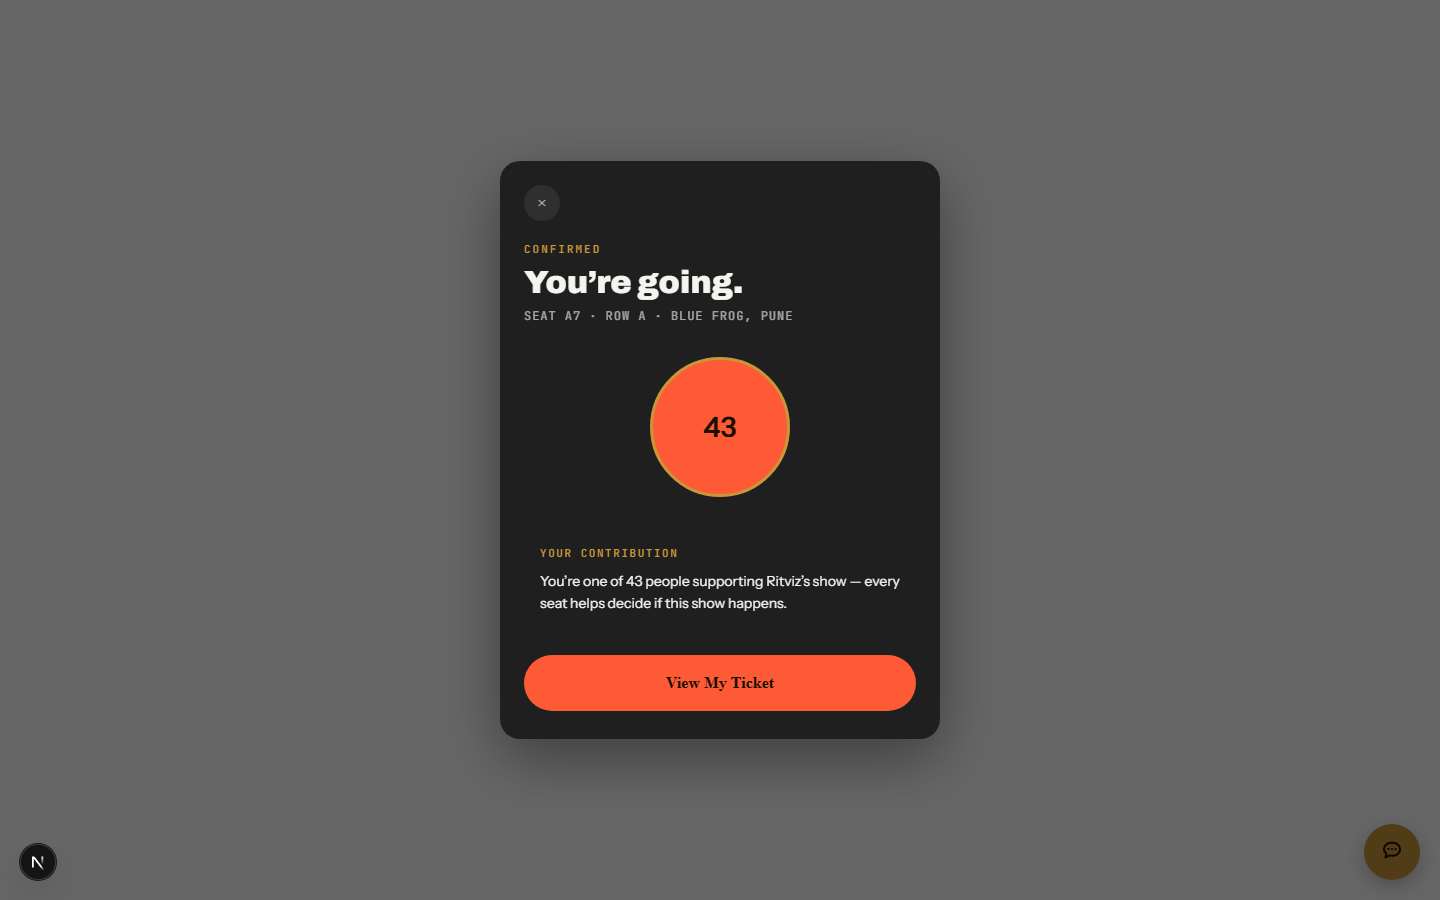
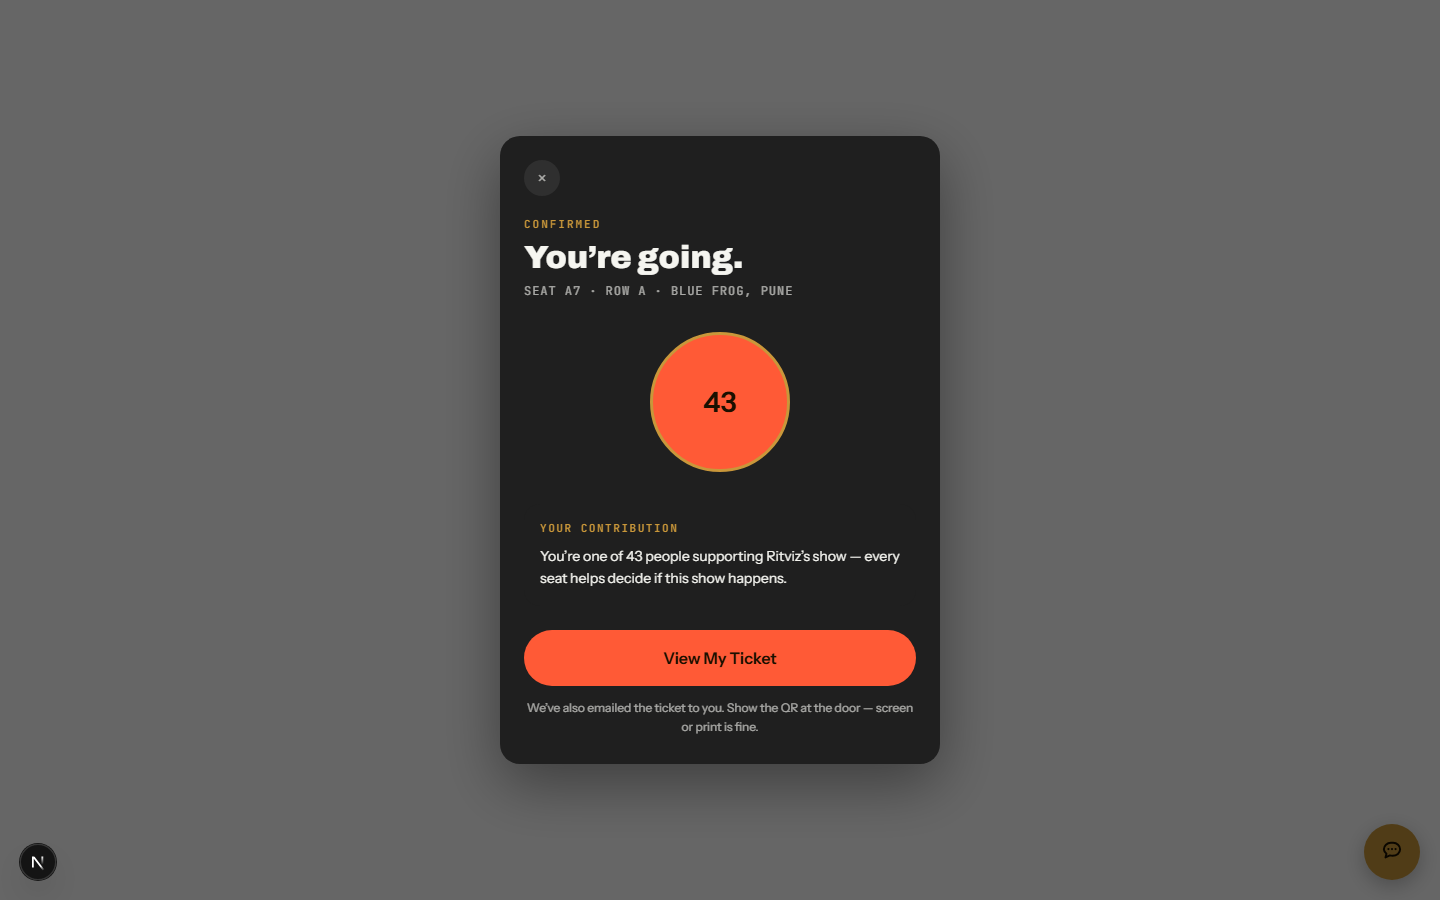
Fix missing emailed-ticket note, button font, and stale supporter count
1. tr.checkoutPage.emailedTicketNote existed on the old confirmed-state
   screen and was dropped without being flagged as deliberate (unlike
   the PDF-download link, which was). Restored as hardcoded English,
   matching the rest of this screen's copy.

2. The CTA/close buttons rendered in the browser's default serif
   fallback, not var(--font-sans) - <button> elements don't inherit
   font-family from ancestors in the UA stylesheet, and neither button
   set one explicitly. Root layout wrapping was fine (verified via
   getComputedStyle - the h1 already resolved to Archivo correctly);
   this was a plain missing-property bug in ContributionMoment.tsx
   itself. Fixed both buttons.

3. Re-verifying via a real booking through the real app (not the
   isolated preview) surfaced a second, more serious bug: the supporter
   count read event.totalSeats - event.availableSeats, but
   availableSeats is never decremented by POST /api/bookings (only by
   the unrelated +1-companion feature) - it would have shown 0 forever
   on every real booking. src/lib/event-occupancy.ts now aggregates
   live Booking rows instead (same CONFIRMED/non-expired-PENDING query
   POST /api/bookings' own capacity check already uses), confirmed
   correctly incrementing (3, then 4) across two real bookings made
   against a live QA event.

Includes new scratch-real-{mobile,desktop}.png + scratch_real_booking.js
(signs in as the documented QA audience persona and books a real free
[…]

Changed region(s): [[0.3438, 0.56, 0.6562, 0.8711], [0.3438, 0.2178, 0.5625, 0.56], [0.3438, 0.1244, 0.6562, 0.1867]]

diff --git a/src/lib/event-occupancy.ts b/src/lib/event-occupancy.ts
@@ -1,26 +1,29 @@
 import prisma from '@/lib/prisma'
 
 // Contribution-moment screen (post-seat-confirm) needs a live "N people
-// supporting this show" count. Event.totalSeats/availableSeats are only
-// kept accurate on the GA/flat booking path - same NUMBERED-venue live-
-// occupancy correction as src/app/(public)/events/[id]/seats/page.tsx
-// (see that file's own comment for the full "Jaipur Mic Gala 100" bug
-// history this fixes), extracted here so both call sites share one
-// definition instead of re-deriving it.
-export async function getEventOccupancy(event: {
+// supporting this show" count - a real seats-taken tally, not a display
+// availability number.
+//
+// Event.availableSeats looks like it should already be this, but it
+// isn't: grepping every write site shows it's only ever set once at
+// event creation (POST /api/events) and decremented by the unrelated
+// "+1 companion" feature (src/lib/plus-one.ts) - POST /api/bookings
+// never touches it. Confirmed live (12 Sep) booking a real QA event
+// through the actual seat-confirm flow: the contribution card showed
+// "0 people supporting" right after a real booking, because this
+// helper's first version read that same stale field. Real capacity
+// checks in POST /api/bookings instead aggregate live Booking rows
+// (CONFIRMED + not-yet-expired PENDING) - same query this mirrors, so
+// the count here always matches what capacity checking already treats
+// as "taken".
+export async function getSupporterCount(event: {
   id: string
   venueId: string | null
-  totalSeats: number
-  availableSeats: number
-}, seatingMode: 'GENERAL_ADMISSION' | 'NUMBERED' | undefined) {
-  if (seatingMode !== 'NUMBERED' || !event.venueId) {
-    return { totalSeats: event.totalSeats, availableSeats: event.availableSeats }
-  }
-
+}, seatingMode: 'GENERAL_ADMISSION' | 'NUMBERED' | undefined): Promise<number> {
   const now = new Date()
-  const [seatTotal, heldCount] = await Promise.all([
-    prisma.seat.count({ where: { venueId: event.venueId } }),
-    prisma.bookingSeat.count({
+
+  if (seatingMode === 'NUMBERED' && event.venueId) {
+    return prisma.bookingSeat.count({
       where: {
         booking: {
           eventId: event.id,
@@ -30,9 +33,27 @@ export async function getEventOccupancy(event: {
           ],
         },
       },
-    }),
-  ])
-  return { totalSeats: seatTotal, availableSeats: Math.max(0, seatTotal - heldCount) }
+    })
+  }
+
+  // GA/flat bookings store `seats` as a { sectionName: qty } JSON map
+  // (empty for NUMBERED bookings, which is why those are counted via
+  // bookingSeat rows above instead) - same shape POST /api/bookings'
+  // own capacity check sums.
+  const bookings = await prisma.booking.findMany({
+    where: {
+      eventId: event.id,
+      OR: [
+        { status: 'CONFIRMED' },
+        { status: 'PENDING', OR: [{ expiresAt: null }, { expiresAt: { gt: now } }] },
+      ],
+    },
+    select: { seats: true },
+  })
+  return bookings.reduce((sum, b) => {
+    const seats = (b.seats as Record<string, number>) || {}
+    return sum + Object.values(seats).reduce((s, qty) => s + Number(qty), 0)
+  }, 0)
 }
 
 // First (lowest-slot) confirmed lineup entry is this app's established

diff --git a/src/components/ContributionMoment.tsx b/src/components/ContributionMoment.tsx
@@ -45,7 +45,7 @@ function CloseButton({ onClose }: { onClose: () => void }) {
         display: 'flex', alignItems: 'center', justifyContent: 'center',
         width: 36, height: 36, borderRadius: '50%', flexShrink: 0,
         background: 'rgba(245,245,240,0.08)', color: 'var(--afa-text-secondary)',
-        border: 'none', cursor: 'pointer', fontSize: 16,
+        border: 'none', cursor: 'pointer', fontSize: 16, fontFamily: 'var(--font-sans)',
       }}
     >
       ×
@@ -102,6 +102,18 @@ function ContributionBody({
   )
 }
 
+// Same copy as the old confirmed-state screen's tr.checkoutPage.emailedTicketNote
+// (src/lib/i18n/dictionaries/en.ts) - carried forward as hardcoded English,
+// matching the rest of this screen's copy, rather than wired through the
+// 11-locale dictionary (see build report's flagged i18n scope call).
+function EmailedTicketNote() {
+  return (
+    <p style={{ margin: '12px 0 0', fontFamily: 'var(--font-sans)', fontSize: 12, lineHeight: 1.6, color: 'var(--afa-text-secondary)', textAlign: 'center' }}>
+      We&rsquo;ve also emailed the ticket to you. Show the QR at the door — screen or print is fine.
+    </p>
+  )
+}
+
 function ViewTicketButton({ onViewTicket }: { onViewTicket: () => void }) {
   return (
     <button
@@ -109,7 +121,7 @@ function ViewTicketButton({ onViewTicket }: { onViewTicket: () => void }) {
       style={{
         width: '100%', background: 'var(--afa-fill-solid)', color: 'var(--afa-on-fill-solid)',
         padding: 16, border: 'none', borderRadius: 999, fontSize: 16, fontWeight: 700,
-        cursor: 'pointer', flexShrink: 0,
+        fontFamily: 'var(--font-sans)', cursor: 'pointer', flexShrink: 0,
       }}
     >
       View My Ticket
@@ -154,6 +166,7 @@ export default function ContributionMoment(props: ContributionMomentProps) {
         <ContributionBody {...props} />
         <div style={{ marginTop: 'auto', paddingTop: 24 }}>
           <ViewTicketButton onViewTicket={props.onViewTicket} />
+          <EmailedTicketNote />
         </div>
       </div>
 
@@ -176,6 +189,7 @@ export default function ContributionMoment(props: ContributionMomentProps) {
           <ContributionBody {...props} />
           <div style={{ marginTop: 24 }}>
             <ViewTicketButton onViewTicket={props.onViewTicket} />
+            <EmailedTicketNote />
           </div>
         </div>
       </div>

diff --git a/scratch_real_booking.js b/scratch_real_booking.js
@@ -1,0 +1,50 @@
+const { chromium } = require('playwright');
+
+const BASE = 'http://localhost:3001';
+const EVENT_ID = 'qa-general-event-01'; // Nimbahera Showcase #1 - free, GA, upcoming, 80/80 available
+
+async function login(page) {
+  await page.addInitScript(() => sessionStorage.setItem('introShown', '1'));
+  await page.goto(`${BASE}/login/`, { waitUntil: 'networkidle' });
+  await page.fill('input[placeholder*="AFA code"]', 'atul.audience@aforaudience.qa');
+  await page.locator('input[type="password"]').fill('QaPass!2026');
+  await page.locator('button[type="submit"], button:has-text("Sign In"), button:has-text("Log In")').first().dispatchEvent('click');
+  await page.waitForTimeout(2000);
+}
+
+(async () => {
+  const browser = await chromium.launch();
+
+  for (const [name, viewport] of [['mobile', { width: 375, height: 812 }], ['desktop', { width: 1440, height: 900 }]]) {
+    const page = await browser.newPage({ viewport });
+    page.on('console', (msg) => { if (msg.type() === 'error') console.log(`[${name} console]`, msg.text()); });
+    await login(page);
+    console.log(name, 'post-login url:', page.url());
+
+    await page.goto(`${BASE}/events/${EVENT_ID}/seats/`, { waitUntil: 'networkidle' });
+    await page.waitForTimeout(1500);
+
+    // Bump the GA "seats" quantity stepper to 1, then click the book button.
+    const plusButtons = page.locator('button:has-text("+")');
+    const count = await plusButtons.count();
+    console.log(name, 'plus buttons found:', count);
+    if (count > 0) {
+      await plusButtons.first().click();
+      await page.waitForTimeout(300);
+    }
+
+    const bookBtn = page.locator('.afa-book-btn');
+    await bookBtn.waitFor({ state: 'visible', timeout: 10000 });
+    await bookBtn.dispatchEvent('click');
+
+    // Wait for the contribution moment to mount (up to ~10s for the
+    // booking POST + detail GET round-trip).
+    await page.waitForSelector('text=You’re going.', { timeout: 15000 }).catch((e) => console.log(name, 'wait error:', e.message));
+    await page.waitForTimeout(800);
+    await page.screenshot({ path: `scratch-real-${name}.png` });
+    await page.close();
+  }
+
+  await browser.close();
+  console.log('done');
+})();

diff --git a/src/app/api/bookings/[id]/route.ts b/src/app/api/bookings/[id]/route.ts
@@ -3,7 +3,7 @@ import { getServerSession } from 'next-auth'
 import { authOptions } from '@/lib/auth'
 import prisma from '@/lib/prisma'
 import { getPublicKeyId, refundPayment } from '@/lib/razorpay'
-import { getEventOccupancy, resolveArtistName } from '@/lib/event-occupancy'
+import { getSupporterCount, resolveArtistName } from '@/lib/event-occupancy'
 
 // GET /api/bookings/[id]
 //
@@ -95,7 +95,7 @@ export async function GET(_req: Request, { params }: { params: Promise<{ id: str
 
     // Contribution-moment screen (post-confirm) needs a live "N people
     // supporting this show" count - never the Figma mockup's hardcoded 43.
-    const occupancy = await getEventOccupancy(booking.event, booking.event.venue?.seatingMode)
+    const supporterCount = await getSupporterCount(booking.event, booking.event.venue?.seatingMode)
     const artistName = resolveArtistName(booking.event)
 
     return NextResponse.json({
@@ -122,8 +122,7 @@ export async function GET(_req: Request, { params }: { params: Promise<{ id: str
                 city: booking.event.venue.city,
               }
             : null,
-          totalSeats: occupancy.totalSeats,
-          availableSeats: occupancy.availableSeats,
+          supporterCount,
           artistName,
         },
       },

diff --git a/src/app/checkout/[bookingId]/page.tsx b/src/app/checkout/[bookingId]/page.tsx
@@ -55,8 +55,7 @@ type BookingState = {
       startTime: string
       endTime: string
       venue: { name: string; city: string } | null
-      totalSeats: number
-      availableSeats: number
+      supporterCount: number
       artistName: string
     }
   }
@@ -414,7 +413,6 @@ export default function CheckoutPage() {
     const venueLabel = state.booking.event.venue
       ? `${state.booking.event.venue.name}, ${state.booking.event.venue.city}`
       : state.booking.event.title
-    const supporterCount = Math.max(0, state.booking.event.totalSeats - state.booking.event.availableSeats)
 
     return (
       <>
@@ -422,7 +420,7 @@ export default function CheckoutPage() {
         <ContributionMoment
           seatSummary={seatSummary}
           venueLabel={venueLabel}
-          supporterCount={supporterCount}
+          supporterCount={state.booking.event.supporterCount}
           artistName={state.booking.event.artistName}
           onClose={() => router.push('/events')}
           onViewTicket={() => router.push('/tickets')}

diff --git a/src/app/(public)/events/[id]/seats/SeatSelectionClientPage.tsx b/src/app/(public)/events/[id]/seats/SeatSelectionClientPage.tsx
@@ -177,7 +177,7 @@ export default function SeatSelectionClientPage({ event }: { event: EventData | 
             setContributionMoment({
               seatSummary,
               venueLabel: b.event.venue ? `${b.event.venue.name}, ${b.event.venue.city}` : b.event.title,
-              supporterCount: Math.max(0, b.event.totalSeats - b.event.availableSeats),
+              supporterCount: b.event.supporterCount,
               artistName: b.event.artistName,
             })
           }
